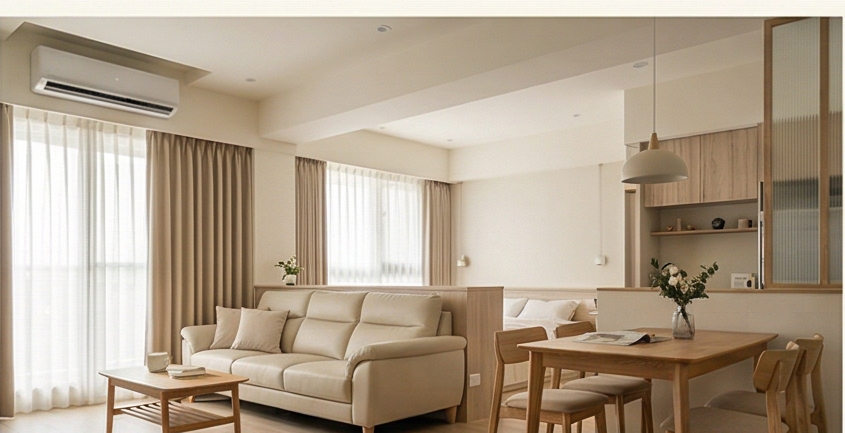
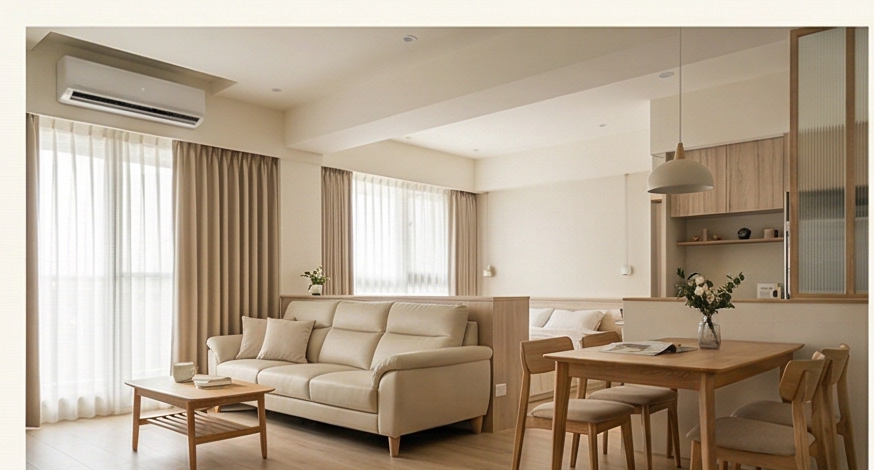
Show more floor in project imagery

diff --git a/app/page.tsx b/app/page.tsx
@@ -158,9 +158,9 @@ export default function HomePage() {
                 <Image
                   src={project.image}
                   alt={project.title}
-                  width={900}
-                  height={462}
-                  className="aspect-[845/433] w-full object-cover object-top"
+                  width={874}
+                  height={470}
+                  className="aspect-[874/470] w-full object-cover"
                 />
                 <div className="p-6">
                   <p className="text-sm uppercase tracking-[0.22em] text-clay">{project.category}</p>

diff --git a/app/projects/page.tsx b/app/projects/page.tsx
@@ -41,9 +41,9 @@ export default function ProjectsPage() {
               <Image
                 src={project.image}
                 alt={project.title}
-                width={900}
-                height={462}
-                className="aspect-[845/433] w-full object-cover object-top"
+                width={874}
+                height={470}
+                className="aspect-[874/470] w-full object-cover"
               />
               <div className="p-6">
                 <p className="text-sm uppercase tracking-[0.22em] text-clay">
